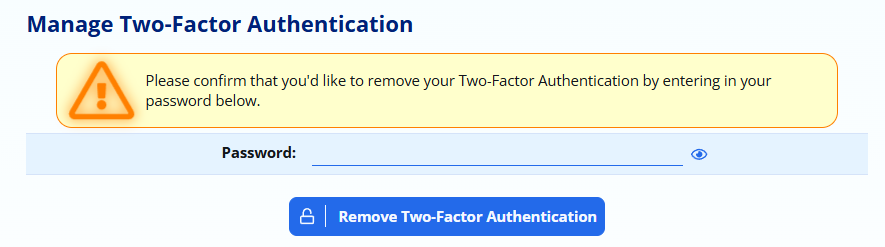
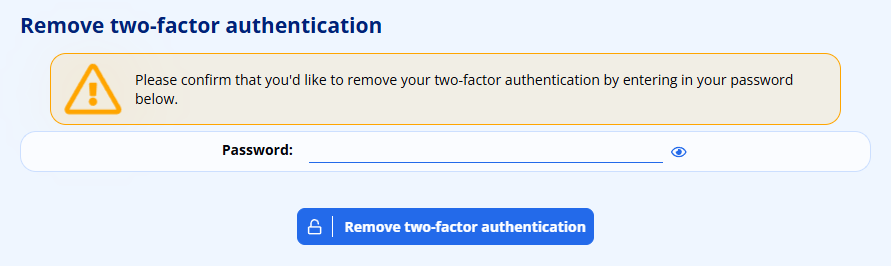
CHANGED: Layouts are assigned to staff, not recommended to them
Recommendations are gone from ADAM. An administrator now writes the one
layout row a staff member has, which means an assignment replaces a
choice that person made for themselves rather than sitting underneath it.
The page said the opposite throughout, so the resolution order, the
privilege description, the chooser wording and the catalogue's action
list are all rewritten against the current code, and "Recommending a
Layout to Staff" becomes "Seeing and Changing Who Uses What" — the
roster reached by "see who is using which layout" and by "people".

The chooser's escape hatch is now "go back to the school default" rather
than "use the recommended layout", and it appears for an administrator's
assignment as well as for your own choice.

Also adds the coverage screen capture, notes the line about whether the
server requires two-factor authentication yet, and takes the re-captured
removal confirmation, which now carries the "Remove two-factor
authentication" heading the page describes.

diff --git a/docs/profile-overview-customisation.md b/docs/profile-overview-customisation.md
@@ -6,7 +6,9 @@ laid out.
 
 Layouts are designed centrally. Somebody at the school — usually an administrator — creates the
 layouts that are available, and staff members then choose which of those layouts they would like to
-use. A staff member never builds a page of their own from scratch; they pick one from the list.
+use. A staff member never builds a page of their own from scratch; they pick one from the list. An
+administrator can also put staff members onto a layout directly, rather than waiting for them to
+choose.
 
 ![](assets/screenshots/profile-overview-customisation/profile-overview-customisation-11.png)
 
@@ -17,14 +19,22 @@ use. A staff member never builds a page of their own from scratch; they pick one
 
 ## Which Layout a Staff Member Sees
 
-ADAM works down a short list and uses the first layout it finds:
+Every staff member has, at most, one layout of their own for each screen. ADAM uses the first of
+these that it finds:
 
-1.  The layout the staff member chose for themselves.
-2.  Otherwise, the layout an administrator has recommended to them.
-3.  Otherwise, the school's default layout.
+1.  The layout on their record — whether they chose it themselves or an administrator put them on
+    it.
+2.  Otherwise, the school's default layout.
 
-This is why an administrator can improve the default layout and have the change reach everybody who
-has not made a choice of their own, without disturbing the people who have.
+Most staff have nothing on their record at all, and simply follow the default. This is why an
+administrator can improve the default layout and have the change reach everybody who has not made a
+choice of their own, without disturbing the people who have.
+
+!!! warning
+    There is only one layout per person per screen, so an administrator who puts somebody onto a
+    layout **replaces whatever they had**, including a layout that person had chosen for themselves.
+    Nothing is kept underneath to fall back on. The staff member can of course choose again
+    afterwards, if they have the privilege to.
 
 !!! note "Upgrading from an earlier version of ADAM"
     Earlier versions of ADAM let each staff member customise their own overview page, and had a
@@ -41,8 +51,8 @@ has not made a choice of their own, without disturbing the people who have.
 
 There are six privileges in total, two for each of the three overview screens:
 
--   **Manage Pupil / Family / Staff Overview layouts** — create, edit, duplicate, delete and
-    recommend the layouts that are available for that screen.
+-   **Manage Pupil / Family / Staff Overview layouts** — create, edit, duplicate and delete the
+    layouts that are available for that screen, and decide which staff members are on which layout.
 -   **Choose own Pupil / Family / Staff Overview layout** — choose which of the available layouts to
     use for that screen.
 
@@ -73,15 +83,15 @@ the page.
 ![](assets/screenshots/profile-overview-customisation/profile-overview-customisation-12.png)
 
 ADAM lists every layout available for that screen, with its description, and shows which one you are
-using at the moment and why — whether it is one you chose yourself, the one recommended for you, or
-the school's default. Where you have permission to view the profiles concerned, each layout also
-offers a **preview** link so that you can see what it looks like before committing to it.
+using at the moment and why — whether it is one you chose yourself, one your administrator set for
+you, or the school's default. Where you have permission to view the profiles concerned, each layout
+also offers a **preview** link so that you can see what it looks like before committing to it.
 
 Select the layout you want and click on **Use this layout**.
 
-If you are using a layout you chose yourself, an option appears to **use the recommended layout**
-instead. Clicking it removes your own choice, so that you go back to following whatever the
-administrator has recommended for you — and you will pick up any later improvements they make to it.
+If you are on a layout of your own, or on one an administrator set for you, an option appears to
+**go back to the school default**. Clicking it takes the layout off your record, so that you follow
+the school's default again — and you will pick up any later improvements made to it.
 
 ## Managing the Available Layouts
 
@@ -91,17 +101,20 @@ If you have the privilege to manage layouts, the same **change this layout** scr
 ![](assets/screenshots/profile-overview-customisation/profile-overview-customisation-13.png)
 
 The catalogue lists each layout with its description, how many blocks it contains and how many staff
-members are currently using it. The default layout is marked as such. Each row offers the following
-actions:
+members are currently using it. The default layout is marked as such. The **People** count is itself
+a link, and opens the list of the staff members it counts. Each row offers the following actions:
 
 -   **edit** — change the layout's name, description and blocks.
 -   **preview** — see the layout rendered against a real pupil, family or staff member.
--   **recommend** — choose which staff members should be given this layout.
+-   **people** — see the staff members who are using this layout, and move them to another one.
 -   **duplicate** — take a copy of the layout, as a starting point for a new one.
 -   **make default** — promote the layout to be the school's default.
 -   **delete** — remove the layout entirely.
 
 The last two are not offered for the layout that is already the default.
+
+Above the table, **see who is using which layout** opens the same list for every staff member at
+once, rather than for a single layout.
 
 ### Creating a New Layout
 
@@ -181,19 +194,35 @@ overview screen using the layout.
     Previewing is only available to people who are allowed to view the profiles concerned in the
     first place.
 
-### Recommending a Layout to Staff
+### Seeing and Changing Who Uses What
 
-Click on **recommend** next to a layout and select the staff members who should be given it. They
-will see this layout unless they have already chosen a different one for themselves.
+Click on **see who is using which layout** above the catalogue for the whole staff, or on **people**
+next to a single layout for just the people on that one. (From a single layout, **show everybody**
+widens it out again.)
 
-Recommending is a good way to give, say, every register teacher a layout suited to their work
-without forcing it on anybody who has already made their own arrangement.
+The list names every current staff member, the layout they are on, and how they came to be on it:
+
+-   **own choice** — they chose this layout themselves.
+-   **assigned** — an administrator put them on it.
+-   **following the default** — they have no layout of their own, so they get the school's default.
+
+To move people, tick them in the list, choose where they should go next to **Move selected to:**,
+and click on **Move selected**. The destination can be any layout, or **Follow the school default**,
+which takes the layout off their record so that they follow the default from then on.
+
+This is how you would give, say, every register teacher the layout suited to their work, without
+waiting for each of them to find it for themselves.
+
+!!! warning
+    Moving somebody replaces whatever they had, **including a layout they picked for themselves**.
+    They are not asked, and their old choice is not remembered. If they have the privilege to choose
+    their own layout, they can simply pick another one afterwards.
 
 ### Making a Layout the Default
 
-Click on **make default**. From then on, that layout is used by anybody who has neither chosen a
-layout nor been recommended one. There is exactly one default layout per screen, so the layout that
-was previously the default becomes an ordinary layout again.
+Click on **make default**. From then on, that layout is used by anybody who has no layout of their
+own and has not been put onto one. There is exactly one default layout per screen, so the layout
+that was previously the default becomes an ordinary layout again.
 
 ### Deleting a Layout
 
@@ -201,4 +230,4 @@ Click on **delete** next to the layout. ADAM protects a layout that is still in 
 
 -   The **default layout cannot be deleted**. Make another layout the default first.
 -   A layout that **staff members are still using cannot be deleted**. Move them to another layout
-    first — ADAM tells you how many people are affected.
+    first, using **people** — ADAM tells you how many people are affected.

diff --git a/TODO.md b/TODO.md
@@ -27,20 +27,30 @@ The demonstration school now has three pupil layouts — **Default** (the defaul
 and **Medical** — and they appear in the captures already in the manual. Use the same three for
 anything below.
 
-### 1. `profile-overview-customisation-15.png` — recommending a layout
+### 1. `profile-overview-customisation-15.png` — who is using which layout
 
-From the catalogue, click on the action that chooses which staff members should be given a layout,
-next to **Admin Layout**. Capture the heading, the sentence explaining that these staff members will
-see this layout unless they pick another, and the **Staff members** selector with three or four demo
-staff members already selected, so that it is clear the control holds several names.
+The page now describes the roster that replaced recommendations, and has no picture of it.
 
-Goes in *Recommending a Layout to Staff*.
+From the catalogue, click on **see who is using which layout**. Capture the **Pupil Overview: who
+uses what** heading, the sentence about moving someone replacing whatever they had, the table —
+**Staff member**, **Layout** and **How** — and the **Move selected to:** control with its
+**Move selected** button at the bottom.
 
-**Check the label while you are there.** The page describes this action as **recommend**, but
-`profile-overview-customisation-13.png` shows the catalogue offering a **people** button, and a
-**see who is using which layout** link above the table that the page does not mention at all. If
-**recommend** is no longer the label, the *Managing the Available Layouts* action list and the
-*Recommending a Layout to Staff* heading and text need correcting to match.
+The **How** column is the point of the image, so make sure the demo school has staff in more than
+one state before capturing: at least one **own choice**, one **assigned**, and one **following the
+default**.
+
+Goes in *Seeing and Changing Who Uses What*.
+
+### 2. `profile-overview-customisation-16.png` — re-capture the Overview privileges
+
+The capture in the manual is one build out of date: it describes **Manage Pupil Overview layouts**
+as letting a user "create, edit, delete and recommend the layouts", but recommendations are gone and
+the privilege now reads "create, edit, delete and **assign** the layouts". Re-capture the same crop,
+keeping the filename, once the demonstration server is on a build with the corrected wording.
+
+While you are there, tick **Choose own Pupil Overview layout** and leave **Manage Pupil Overview
+layouts** unticked, matching the advice in the text that most teachers get only the first.
 
 ---
 
@@ -52,32 +62,6 @@ against the rebuilt page and still matches. `-07.png` and `-08.png` were the sam
 management screen — and have been deleted; the *Removing Two-Factor Authentication* section now uses
 `-15.png`.
 
-### 2. `two-factor-authentication-09.png` — re-capture the removal confirmation
-
-The existing image no longer matches the page. *Removing Two-Factor Authentication* says ADAM opens
-a page headed **Remove two-factor authentication**; the image shows the old **Manage Two-Factor
-Authentication** heading and the older styling. Re-capture the password confirmation step, keeping
-the same filename, and correct the page's wording if the heading turns out to differ.
-
-### 3. `two-factor-authentication-for-administrators-01.png` — the coverage screen
-
-New page, new screenshot folder: `docs/assets/screenshots/two-factor-authentication-for-administrators/`.
-
-Click on the **Administration tab**, then under the **Security Administration** heading click on
-**Manage Two-Factor Authentication for staff**. Capture the headline line ("**N of M staff are set
-up**") and all four tables, which the screen renders in this order: **Not set up**, **Never signed
-in**, **Suspended**, **Set up**. Have at least one demo staff member in each so that none of the
-four reads as empty.
-
-Goes in *The coverage screen*.
-
-### 4. `two-factor-authentication-for-administrators-02.png` — the dashboard reminder card
-
-Sign in as a demo staff member who has not yet set up two-factor authentication, and capture the
-reminder card on their ADAM dashboard.
-
-**Set Two Factor Authentication Forced For Staff to "No" on the demonstration school first.** Once
-enrolment is actually required of someone, ADAM sends them straight to the setup page and they never
-reach a dashboard — so with the setting on there is no card to photograph.
-
-Goes in *The reminder on your dashboard*.
+*The reminder on your dashboard* is deliberately without an illustration. The card could not be made
+to appear on the demonstration server, and the section reads perfectly well without a picture, so
+nothing is outstanding there.

diff --git a/docs/two-factor-authentication-for-administrators.md b/docs/two-factor-authentication-for-administrators.md
@@ -65,7 +65,9 @@ setting. A server whose time has drifted affects everybody at once, which is the
 
 Click on the **Administration tab**, then under the **Security Administration** heading click on **Manage Two-Factor Authentication for staff**.
 
-The screen opens with a single line telling you where the school stands — for example, “**34 of 51 staff are set up**”. Below it, every current staff member appears in one of four tables.
+![](assets/screenshots/two-factor-authentication-for-administrators/two-factor-authentication-for-administrators-01.png)
+
+The screen opens with a single line telling you where the school stands — for example, “**34 of 51 staff are set up**”. Beneath it, a sentence says whether this server requires two-factor authentication yet and names the date it becomes required; once that date has passed on a school that still has not switched the requirement on, it says so. Below that, every current staff member appears in one of four tables, each headed with the number of people in it.
 
 **Not set up** — they have signed in before, they can sign in now, and they have not set two-factor authentication up. This is the list that matters: these are the people who will be stopped at the door when the requirement takes effect.
 
